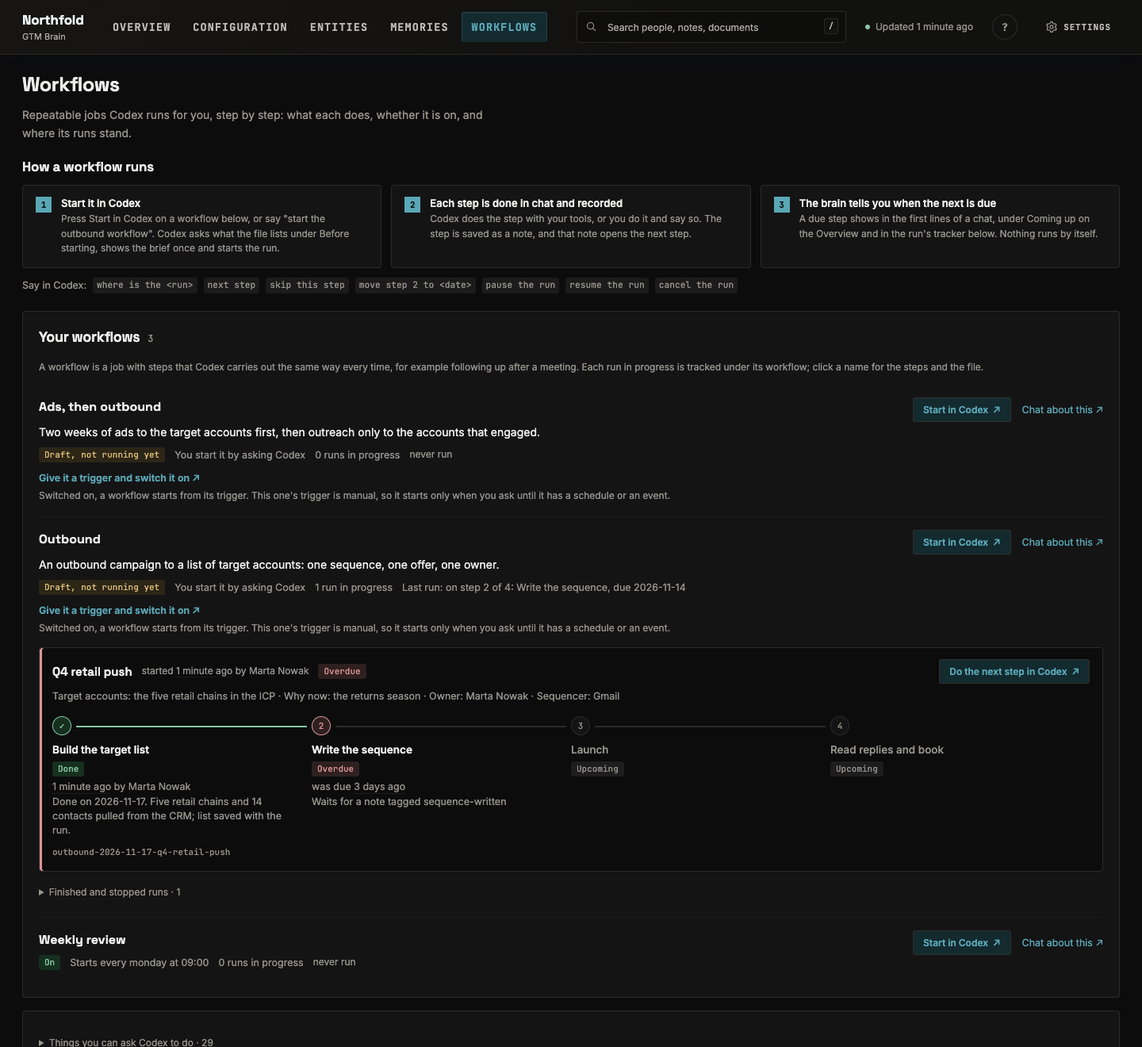
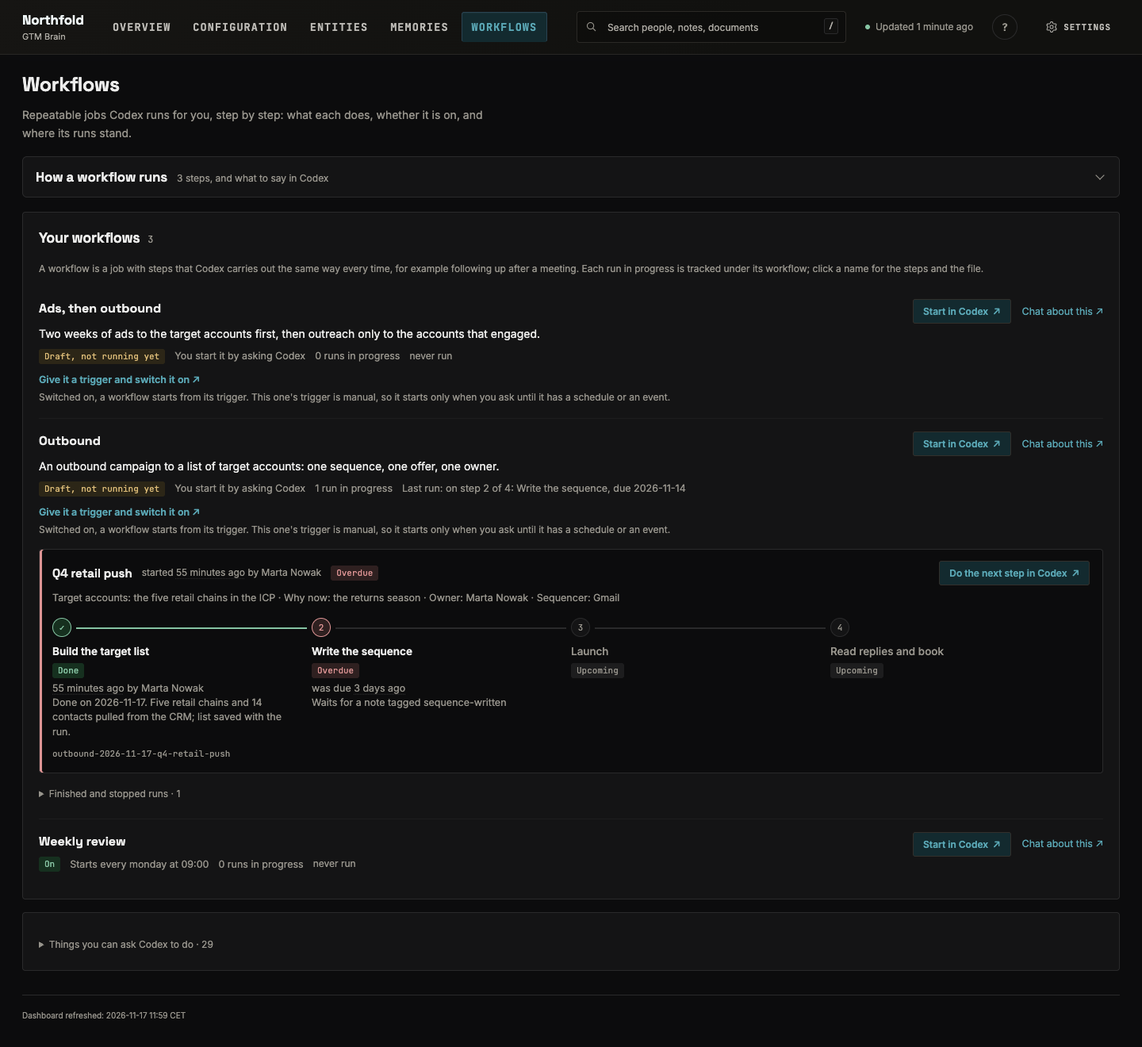
Dashboard in a narrow pane: fits 480 to 760 px beside Codex
The dashboard usually takes half of the screen next to Codex. At 760 px and
below the header is two rows (the five places scroll sideways with a fade,
the current one scrolled into view; search stays in the header, on its own
row below 560 px). Foundations are one compact card each, with what each is
for folded under one disclosure. Configuration puts its tabs first, with a dot
where something is missing, keeps only the picked part's card, and the base
documents table becomes stacked rows. The Workflows explainer is a disclosure,
open at first only in a wide pane with no run, remembered per session. Action
links are at least 32 px high; no view scrolls the page sideways.

A browser test checks every view at 640 and 480 px.

diff --git a/plugins/gtm-brain/scripts/gtm-brain-render/home.template.html b/plugins/gtm-brain/scripts/gtm-brain-render/home.template.html
@@ -373,11 +373,82 @@ time.pl-when{white-space:nowrap;cursor:help;text-decoration:underline dotted var
 @media(max-width:800px){.cfg-schema{grid-template-columns:1fr}.cfg-kinds{position:static;flex-direction:row;flex-wrap:wrap}}
 </style>
 <link rel="stylesheet" href="ui/dashboard.css">
+<style id="pane-style">
+/* The usual place of this page is half of the screen, beside Codex: a pane 480 to 760 px wide. 640 is the width it is
+   designed for, 480 the floor, a whole wide screen the other case. This block comes after the bundle's stylesheet so it
+   wins at equal specificity. Two breakpoints: 760 (the pane) and 560 (the floor). Nothing is removed in a narrow
+   pane: what explains a section folds into a disclosure (drawn by the page script), the facts and links stay. */
+.wf-how{margin:0 0 18px;padding:0 16px;border:1px solid var(--rule);border-radius:6px;background:var(--surface)}.wf-how>summary{display:flex;align-items:baseline;flex-wrap:wrap;gap:4px 12px;min-height:44px;padding:12px 22px 12px 0;cursor:pointer;list-style:none;position:relative}.wf-how>summary::-webkit-details-marker{display:none}.wf-how>summary h2{margin:0}.wf-how>summary:after{content:"";position:absolute;right:4px;top:19px;width:7px;height:7px;border-right:1.5px solid var(--muted);border-bottom:1.5px solid var(--muted);transform:rotate(45deg);transition:transform .15s}.wf-how[open]>summary:after{transform:rotate(-135deg);top:22px}.wf-how>summary:focus-visible{outline:2px solid var(--accent);outline-offset:2px;border-radius:3px}.wf-how .wf-say{margin-bottom:16px}
+.fd-why{font-size:12.5px;color:var(--muted)}.fd-why>summary{display:inline-flex;align-items:center;gap:6px;min-height:32px;cursor:pointer;list-style:none}.fd-why>summary::-webkit-details-marker{display:none}.fd-why>summary:before{content:"";width:5px;height:5px;border-right:1.5px solid currentColor;border-bottom:1.5px solid currentColor;transform:rotate(-45deg);transition:transform .15s}.fd-why[open]>summary:before{transform:rotate(45deg)}.fd-why>summary:hover{color:var(--ink)}.fd-why>summary:focus-visible{outline:2px solid var(--accent);outline-offset:2px;border-radius:3px}.fd-why p,.fd-uses{margin:2px 0 8px;line-height:1.5}.fd-uses{padding-left:18px}.fd-uses li{margin:3px 0}.fd-uses b{color:var(--ink);font-weight:600}.fd-lead{margin:-2px 0 8px}
+.cfg-dot{display:none}
+@media(max-width:760px){
+ /* the header: two rows, the brain and its tools, then the five places, which scroll sideways when they do not fit */
+ .header-inner,.main{padding-left:16px;padding-right:16px}
+ .top{flex-wrap:wrap;gap:8px 10px;min-height:0;padding:10px 0 8px}
+ .brand{order:0;max-width:150px;margin-right:0}.brand b{font-size:15px}
+ .top .search-wrap{order:1;flex:1 1 150px;max-width:none;min-width:0}.top .search-wrap kbd{display:none}.top .gq{padding-right:12px}
+ .sync-status{order:2}.help-link{order:3}.workspace-link{order:4;padding:7px 8px}
+ .top .nav{order:5;flex:1 0 100%;min-width:0;display:flex;flex-wrap:nowrap;gap:2px;margin:0 -16px;padding:0 16px;overflow-x:auto;overscroll-behavior-x:contain;scrollbar-width:none;scroll-padding:0 40px}
+ .top .nav::-webkit-scrollbar{display:none}
+ .top .nav button{flex:none;padding:7px 11px;min-height:36px}
+ .top .nav.more-right{-webkit-mask-image:linear-gradient(90deg,#000 calc(100% - 44px),transparent);mask-image:linear-gradient(90deg,#000 calc(100% - 44px),transparent)}
+ .top .nav.more-left{-webkit-mask-image:linear-gradient(90deg,transparent,#000 44px);mask-image:linear-gradient(90deg,transparent,#000 44px)}
+ .top .nav.more-left.more-right{-webkit-mask-image:linear-gradient(90deg,transparent,#000 44px,#000 calc(100% - 44px),transparent);mask-image:linear-gradient(90deg,transparent,#000 44px,#000 calc(100% - 44px),transparent)}
+ .main{padding-top:14px}.view-toolbar{min-height:0;margin-bottom:6px}.head h1{font-size:26px}.view.on>.head{margin-bottom:14px}.view.on>.head .sub{font-size:13.5px}
+ /* a link that does something is at least 32 px high */
+ .fd-links .linkbtn,.fd-go,.ov-soon-acts>a,.ov-soon-acts>button,.ov-suggest>a,.ov-suggest>button,.wf-on .pl-chat,.wf-acts>a,.pl-go>a,.pl-doc-open,.doc-back,a.pl-chat,.pl-links>a,.mem-acts>a,.mem-acts>button,.ent-back,.doc-foot a{display:inline-flex;align-items:center;column-gap:.3em;min-height:32px}
+ .ov-soon li{gap:4px 18px}
+ /* long words and paths wrap; a table that cannot stack scrolls inside its own box */
+ code,.pl-path,.doc-meta code{overflow-wrap:anywhere;word-break:break-word}.pl-table-wrap{max-width:100%;overflow-x:auto}
+ /* Foundations: one compact card each, the title and its facts on one line, then what is missing and the two links */
+ .fd{margin-top:26px}.fd-grid{grid-template-columns:minmax(0,1fr);gap:8px}
+ .fd-card{display:grid;grid-template-columns:auto minmax(0,1fr);align-items:baseline;column-gap:12px;row-gap:6px;padding:12px 14px}
+ .fd-card>*{grid-column:1/-1;margin:0}.fd-card>h3{grid-column:1;font-size:15px}.fd-card>.fd-facts{grid-column:2;font-size:13px}.fd-card>.fd-links{padding-top:0;gap:0 16px}.fd-card>.fd-why{margin-top:-4px}
+ .mentor-grid{grid-template-columns:repeat(auto-fill,minmax(250px,1fr))}#ov-mentors{margin-top:26px}
+ /* Configuration: the three tabs come first and carry a dot where something is missing; above the picked part's
+    content only its own card stays, without the link to the part it already shows */
+ .view[data-view="config"].on{display:flex;flex-direction:column}.view[data-view="config"]>*{order:3}.view[data-view="config"]>.head{order:0}.view[data-view="config"]>#cfg-tabs{order:1}.view[data-view="config"]>#cfg-peers{order:2}
+ #cfg-peers .fd-card:not(.on){display:none}#cfg-peers .fd-card.on{box-shadow:none}#cfg-peers .fd-card [data-cfg-tab],#cfg-peers .fd-card>h3{display:none}#cfg-peers .fd-card>.fd-facts{grid-column:1/-1}.fd-peers{margin:0 0 14px}
+ .cfg-tabs{flex-wrap:nowrap;overflow-x:auto;scrollbar-width:none;margin-bottom:14px}.cfg-tabs::-webkit-scrollbar{display:none}.cfg-tabs{gap:0}.cfg-tabs button{flex:none;gap:6px;padding:10px 9px;min-height:40px;font-size:13.5px}
+ .cfg-dot{display:inline-block;width:7px;height:7px;border-radius:50%;background:var(--amber);margin-left:-2px}
+ .pl-card{padding:14px 14px}
+ /* the base documents: each row is a stacked item, the name and its state, what it says, when it changed, the link */
+ #cfg-docs .pl-table thead{position:absolute;width:1px;height:1px;overflow:hidden;clip:rect(0 0 0 0);white-space:nowrap}
+ #cfg-docs .pl-table,#cfg-docs .pl-table tbody{display:block;width:100%}
+ #cfg-docs .pl-table tr{display:grid;grid-template-columns:minmax(0,1fr) auto;align-items:baseline;gap:4px 12px;padding:12px 0;border-top:1px solid var(--soft)}
+ #cfg-docs .pl-table tr:first-child{border-top:0}
+ #cfg-docs .pl-table th,#cfg-docs .pl-table td{display:block;padding:0;border:0;min-width:0}
+ #cfg-docs .pl-table tbody th{grid-column:1;grid-row:1}#cfg-docs .pl-table td:nth-child(2){grid-column:2;grid-row:1;justify-self:end}
+ #cfg-docs .pl-table td.pl-says{grid-column:1/-1;max-width:none}
+ #cfg-docs .pl-table td:nth-child(4){grid-column:1;font-size:11.5px;color:var(--muted)}#cfg-docs .pl-table td:nth-child(4) *{font-size:inherit}
+ #cfg-docs .pl-table td.pl-go{grid-column:2;justify-self:end;white-space:nowrap}
+ .pl-dl{grid-template-columns:minmax(0,max-content) minmax(0,1fr);gap:4px 12px}
+ /* Workflows: the explainer is closed unless opened; the run tracker goes vertical */
+ .wf-how{padding:0 12px}.wf-how .help-steps{grid-template-columns:minmax(0,1fr);gap:8px}.wf-top h3{flex:1 1 200px}
+ .wf-run{padding:12px}.wf-run-head .skill-open{margin-left:0}
+ .wf-track{grid-auto-flow:row}.wf-st{padding:0 0 14px 36px}.wf-st:not(:last-child):after{display:none}.wf-dot{position:absolute;left:0;top:0}.wf-st-body{margin-top:0}
+ /* Memories: the filter box takes the row, the selects share the next */
+ .mem-top .explore-search{flex:1 1 100%}.mem-filters select,.mem-filters label input{min-width:0}.mem-top>label{flex:1 1 140px}
+ /* Help */
+ .help-steps{grid-template-columns:minmax(0,1fr);gap:8px}
+ /* the document: the text takes the width, the toolbar wraps */
+ .doc-preview{padding:16px}.doc-body{height:auto;min-height:0}.doc-body.mode-read .doc-preview,.doc-body.mode-preview .doc-preview{max-height:none}
+}
+@media(max-width:560px){
+ /* the floor: the search box gets a row of its own, Settings keeps only its icon */
+ .top .search-wrap{order:6;flex:1 0 100%}
+ .brand{max-width:none;margin-right:auto}
+ .workspace-link .ws-text{position:absolute;width:1px;height:1px;overflow:hidden;clip:rect(0 0 0 0);white-space:nowrap}
+ .head h1{font-size:24px}
+ .fd-card{grid-template-columns:minmax(0,1fr)}.fd-card>.fd-facts{grid-column:1}
+ .mentor-grid{grid-template-columns:minmax(0,1fr)}
+}
+</style>
 </head>
 <body>
 <a class="skip-link" href="#main-content">Skip to content</a>
 <div class="app">
-<header class="app-header"><div class="header-inner"><div class="top"><div class="brand"><div class="brand-copy"><b id="brand-co"></b><span id="sub"></span></div></div><nav class="nav" id="nav" aria-label="Main navigation"></nav><div class="search-wrap"><svg viewBox="0 0 24 24" fill="none" stroke="currentColor" stroke-width="1.7" aria-hidden="true"><circle cx="10.5" cy="10.5" r="6.5"/><path d="m16 16 4.5 4.5"/></svg><label class="sr-only" for="gq">Search this brain</label><input id="gq" class="gq" type="search" placeholder="Search people, notes, documents" autocomplete="off" role="combobox" aria-expanded="false" aria-autocomplete="list" aria-controls="gq-results"><kbd aria-hidden="true">/</kbd><div class="gq-pop" id="gq-results" role="listbox" aria-label="Search results" hidden></div></div><span class="sync-status" id="brain-health" role="status"></span><button class="help-link" data-v="skills" aria-label="Help" title="Help: what you can ask Codex to do">?</button><button class="workspace-link" id="workspace-link" data-v="admin">Settings</button></div><div class="project-picker" id="project-picker" hidden><label for="project-select" id="project-label"></label><div class="project-select-wrap"><select id="project-select"></select></div></div><nav class="subnav" id="subnav" aria-label="More" hidden></nav></div></header>
+<header class="app-header"><div class="header-inner"><div class="top"><div class="brand"><div class="brand-copy"><b id="brand-co"></b><span id="sub"></span></div></div><nav class="nav" id="nav" aria-label="Main navigation"></nav><div class="search-wrap"><svg viewBox="0 0 24 24" fill="none" stroke="currentColor" stroke-width="1.7" aria-hidden="true"><circle cx="10.5" cy="10.5" r="6.5"/><path d="m16 16 4.5 4.5"/></svg><label class="sr-only" for="gq">Search this brain</label><input id="gq" class="gq" type="search" placeholder="Search people, notes, documents" autocomplete="off" role="combobox" aria-expanded="false" aria-autocomplete="list" aria-controls="gq-results"><kbd aria-hidden="true">/</kbd><div class="gq-pop" id="gq-results" role="listbox" aria-label="Search results" hidden></div></div><span class="sync-status" id="brain-health" role="status"></span><button class="help-link" data-v="skills" aria-label="Help" title="Help: what you can ask Codex to do">?</button><button class="workspace-link" id="workspace-link" data-v="admin"><span class="ws-text">Settings</span></button></div><div class="project-picker" id="project-picker" hidden><label for="project-select" id="project-label"></label><div class="project-select-wrap"><select id="project-select"></select></div></div><nav class="subnav" id="subnav" aria-label="More" hidden></nav></div></header>
 <main class="main" id="main-content" tabindex="-1"><div class="view-toolbar"><button class="view-back" id="view-back" type="button" hidden><svg viewBox="0 0 24 24" fill="none" stroke="currentColor" stroke-width="1.8" aria-hidden="true"><path d="m12 5-7 7 7 7M5 12h14"/></svg><span id="view-back-label">Back</span></button><div class="location" id="location" hidden></div><p class="chat-instruction" id="chat-instruction"></p></div>
 <p class="m" id="view-scope"></p>
 <div id="manual-edits" role="status"></div>
@@ -452,11 +523,18 @@ const stale=D.contexts.filter(c=>c.stale&&c.status==="active"&&!c.updating);cons
 const PILLARS=["config","entities","notes","workflows"];
 const VIEWS=[["home","Overview"],["config","Configuration"],["entities","Entities"],["notes","Memories"],["workflows","Workflows"]];let view="home";
 const MORE=[["home","Overview"],["explore","Explore"],["skills","Help"]];
+/* The dashboard usually shares the screen with Codex: a pane 480 to 760 px wide. Below 761 px what explains a section
+   folds into a disclosure, so the facts and links come first; a page without matchMedia (tests, a saved copy) is wide. */
+const NARROW_Q=typeof matchMedia==="function"?matchMedia("(max-width: 760px)"):null;const narrow=()=>!!NARROW_Q?.matches;
 const viewLabel=v=>({doc:"Document",config:"Configuration",entities:"Entities",notes:"Memories",workflows:"Workflows",home:"Overview",contexts:"Topics",explore:"Explore",search:"Search",people:"People & organizations",customers:"Customers",meetings:"Meetings",memories:"Memories",questions:"Needs your attention",projects:"Working folders",admin:"Settings",skills:"Help"})[v]||v;
+/* In a narrow pane the five places scroll sideways: the current one is scrolled into view, and a fade marks the side with more. */
+function navFit(){const n=document.getElementById?.("nav");if(!n||!n.classList||typeof n.scrollWidth!=="number")return;const on=n.querySelector?.(".on");if(on&&n.scrollWidth>n.clientWidth+1&&(on.offsetLeft<n.scrollLeft||on.offsetLeft+on.offsetWidth>n.scrollLeft+n.clientWidth))n.scrollLeft=on.offsetLeft-(n.clientWidth-on.offsetWidth)/2;navFade()}
+function navFade(){const n=document.getElementById?.("nav");if(!n||!n.classList)return;n.classList.toggle("more-left",n.scrollLeft>2);n.classList.toggle("more-right",n.scrollLeft+n.clientWidth<n.scrollWidth-2)}
+if(typeof addEventListener==="function"){addEventListener("resize",()=>navFit());addEventListener("DOMContentLoaded",()=>document.getElementById("nav")?.addEventListener("scroll",navFade,{passive:true}))}
 function nav(){
  /* One flat row. A view outside it (a document, a topic, search) lights the place it was opened from. */
  const group=PILLARS.includes(view)||view==="home"?view:view==="admin"||view==="skills"?view:view==="doc"?(typeof docBack==="function"?docBack()[0]:"config"):["people","customers"].includes(view)?"entities":["contexts","memories","meetings","questions","decisions"].includes(view)?"notes":["projects"].includes(view)?"home":"";
- $("#nav").innerHTML=VIEWS.map(([k,label])=>`<button data-v="${k}" class="${group===k?"on":""}" ${group===k?'aria-current="page"':''}><span>${esc(label)}</span></button>`).join("");
+ $("#nav").innerHTML=VIEWS.map(([k,label])=>`<button data-v="${k}" class="${group===k?"on":""}" ${group===k?'aria-current="page"':''}><span>${esc(label)}</span></button>`).join("");navFit();
  $("#workspace-link").classList.toggle("on",view==="admin");
  $("#workspace-link").setAttribute("aria-current",view==="admin"?"page":"false");
  const parent=["contexts","people","customers","meetings","memories","questions"].includes(view)?"home":null;
@@ -1203,19 +1281,20 @@ function foundations(){
  for(const d of drafts.slice(0,2))base.weak.push(`${d.title} is a draft: Codex follows it and says it is not approved.`);
  return [rules,schema,base];
 }
-const fdCard=(f,where,compact)=>`<article class="fd-card${f.weak.length?" weak":""}${where==="config"&&cfgTab===f.tab?" on":""}" data-fd="${f.key}"><h3>${esc(f.title)}</h3>${compact?"":`<p class="fd-use">${esc(f.use)}</p>`}<p class="fd-facts">${f.facts.join(` <span aria-hidden="true">·</span> `)}</p>${f.chips?`<p class="fd-chips">${f.chips}</p>`:""}${f.weak.length?`<ul class="fd-weak">${f.weak.map(w=>`<li>${esc(w)}</li>`).join("")}</ul>`:""}<p class="fd-links">${where==="config"?`<button type="button" class="linkbtn" data-cfg-tab="${f.tab}">${esc(f.open.replace(/^Open/,"Show"))} <span aria-hidden="true">↓</span></button>`:`<button type="button" class="linkbtn" data-v="config" data-cfg-open="${f.tab}">${esc(f.open)} <span aria-hidden="true">→</span></button>`}<a class="fd-go" href="${esc(f.href)}">${esc(f.chat)} <span aria-hidden="true">↗</span></a></p></article>`;
+/* use: "show" the sentence on what Codex uses it for, "fold" it under a disclosure (a narrow pane), or "none". */
+const fdCard=(f,where,compact,use=compact?"none":"show")=>`<article class="fd-card${f.weak.length?" weak":""}${where==="config"&&cfgTab===f.tab?" on":""}" data-fd="${f.key}"><h3>${esc(f.title)}</h3>${use==="show"?`<p class="fd-use">${esc(f.use)}</p>`:""}<p class="fd-facts">${f.facts.join(` <span aria-hidden="true">·</span> `)}</p>${f.chips?`<p class="fd-chips">${f.chips}</p>`:""}${f.weak.length?`<ul class="fd-weak">${f.weak.map(w=>`<li>${esc(w)}</li>`).join("")}</ul>`:""}<p class="fd-links">${where==="config"?`<button type="button" class="linkbtn" data-cfg-tab="${f.tab}">${esc(f.open.replace(/^Open/,"Show"))} <span aria-hidden="true">↓</span></button>`:`<button type="button" class="linkbtn" data-v="config" data-cfg-open="${f.tab}">${esc(f.open)} <span aria-hidden="true">→</span></button>`}<a class="fd-go" href="${esc(f.href)}">${esc(f.chat)} <span aria-hidden="true">↗</span></a></p>${use==="fold"?`<details class="fd-why"><summary>${esc("What Codex uses it for")}</summary><p class="fd-use">${esc(f.use)}</p></details>`:""}</article>`;
 /* The Overview's section, above the mentors. It stays when nothing is missing, shorter. */
 function renderFoundations(){
  const box=$("#ov-foundations");if(!box)return;
  const parts=foundations();if(!parts.length){box.innerHTML="";return}
- const compact=parts.every(f=>!f.weak.length);
- box.innerHTML=`<section class="fd${compact?" compact":""}" aria-label="${esc("Foundations")}"><div class="ov-head"><h2>${esc("Foundations")}</h2>${compact?`<span class="pl-age">${esc("nothing missing")}</span>`:""}</div>${compact?"":`<p class="mentor-lead">${esc("What Codex works from, most important first: the rules and the schema decide what the brain keeps, the base documents say what your work must follow. What is missing here is missing from everything Codex does for you.")}</p>`}<div class="fd-grid">${parts.map(f=>fdCard(f,"home",compact)).join("")}</div></section>`;
+ const compact=parts.every(f=>!f.weak.length),fold=narrow(),lead="What Codex works from, most important first: the rules and the schema decide what the brain keeps, the base documents say what your work must follow. What is missing here is missing from everything Codex does for you.";
+ box.innerHTML=`<section class="fd${compact?" compact":""}" aria-label="${esc("Foundations")}"><div class="ov-head"><h2>${esc("Foundations")}</h2>${compact?`<span class="pl-age">${esc("nothing missing")}</span>`:""}</div>${compact?"":fold?`<details class="fd-why fd-lead"><summary>${esc("What these are")}</summary><p class="mentor-lead">${esc(lead)}</p><ul class="fd-uses">${parts.map(f=>`<li><b>${esc(f.title)}</b>: ${esc(f.use)}</li>`).join("")}</ul></details>`:`<p class="mentor-lead">${esc(lead)}</p>`}<div class="fd-grid">${parts.map(f=>fdCard(f,"home",compact,compact||fold?"none":"show")).join("")}</div></section>`;
 }
 /* The Configuration tab's landing: the same three as peers, before the detail of the one picked. */
 function renderConfigPeers(){
  const box=$("#cfg-peers");if(!box)return;
  const parts=foundations();
- box.innerHTML=parts.length?`<div class="fd-grid fd-peers" role="group" aria-label="${esc("The three parts of the configuration")}">${parts.map(f=>fdCard(f,"config",false)).join("")}</div>`:"";
+ box.innerHTML=parts.length?`<div class="fd-grid fd-peers" role="group" aria-label="${esc("The three parts of the configuration")}">${parts.map(f=>fdCard(f,"config",false,narrow()?"fold":"show")).join("")}</div>`:"";
 }
 function renderConfig(){
  if(!PL){$("#cfg-docs").innerHTML=plEmpty;return}
@@ -1304,7 +1383,9 @@ function renderConfigTabs(){
  if(!PL||plUnread("configuration"))return;
  const C=PL.configuration,tabs=[["rules","Rules",ruleGroupCounts(C.rules).reduce((a,b)=>a+b,0)],["schema","Schema",C.schema.kinds.length],["docs","Base documents and company",C.documents.filter(d=>d.base).length]];
  if(!tabs.some(([k])=>k===cfgTab))cfgTab="docs";
- $("#cfg-tabs").innerHTML=tabs.map(([k,label,n])=>`<button type="button" role="tab" id="cfg-tab-${k}" aria-selected="${cfgTab===k}" aria-controls="cfg-${k}" tabindex="${cfgTab===k?0:-1}" data-cfg-tab="${k}" class="${cfgTab===k?"on":""}">${esc(label)}${n===null?"":` <span class="pl-count">${n}</span>`}</button>`).join("");
+ /* a part where something is missing carries a dot; in a narrow pane the tabs come first and the peer cards above them fold away */
+ let weak=new Set();try{weak=new Set(foundations().filter(f=>f.weak.length).map(f=>f.tab))}catch{}
+ $("#cfg-tabs").innerHTML=tabs.map(([k,label,n])=>`<button type="button" role="tab" id="cfg-tab-${k}" aria-selected="${cfgTab===k}" aria-controls="cfg-${k}" tabindex="${cfgTab===k?0:-1}" data-cfg-tab="${k}" class="${cfgTab===k?"on":""}">${esc(label)}${n===null?"":` <span class="pl-count">${n}</span>`}${weak.has(k)?`<span class="cfg-dot" title="${esc("Something here is missing")}"><span class="sr-only">${esc(", something here is missing")}</span></span>`:""}</button>`).join("");
  for(const [k,id] of [["docs","#cfg-docs"],["docs","#cfg-about"],["docs","#cfg-profile"],["rules","#cfg-rules"],["schema","#cfg-schema"]])$(id).hidden=cfgTab!==k;$("#cfg-settings").hidden=true;
  renderConfigPeers();
 }
@@ -1807,7 +1888,9 @@ function renderWorkflowsTab(){
  /* how one runs, in three steps like Help's, with the sentences that move a run */
  const how=[["Start it in Codex","Press Start in Codex on a workflow below, or say \"start the outbound workflow\". Codex asks what the file lists under Before starting, shows the brief once and starts the run."],["Each step is done in chat and recorded","Codex does the step with your tools, or you do it and say so. The step is saved as a note, and that note opens the next step."],["The brain tells you when the next is due","A due step shows in the first lines of a chat, under Coming up on the Overview and in the run's tracker below. Nothing runs by itself."]];
  const say=["where is the <run>","next step","skip this step","move step 2 to <date>","pause the run","resume the run","cancel the run"];
- $("#pw-how").innerHTML=`<section class="wf-how" aria-label="${esc("How a workflow runs")}"><h2>${esc("How a workflow runs")}</h2><ol class="help-steps">${how.map(([title,body],i)=>`<li><b>${i+1}</b><div><strong>${esc(title)}</strong><p>${esc(body)}</p></div></li>`).join("")}</ol><p class="wf-say"><span>${esc("Say in Codex:")}</span>${say.map(x=>`<code>${esc(x)}</code>`).join("")}</p></section>`;
+ /* a disclosure: open at first only in a wide pane with no run yet; once the person opens or closes it, that holds for the session */
+ let howOpen=!narrow()&&!W.files.some(f=>(f.runs||[]).length);try{const kept=sessionStorage.getItem("gtm-wf-how");if(kept)howOpen=kept==="open"}catch{}
+ $("#pw-how").innerHTML=`<details class="wf-how" id="wf-how"${howOpen?" open":""}><summary><h2>${esc("How a workflow runs")}</h2><span class="pl-age">${esc("3 steps, and what to say in Codex")}</span></summary><ol class="help-steps">${how.map(([title,body],i)=>`<li><b>${i+1}</b><div><strong>${esc(title)}</strong><p>${esc(body)}</p></div></li>`).join("")}</ol><p class="wf-say"><span>${esc("Say in Codex:")}</span>${say.map(x=>`<code>${esc(x)}</code>`).join("")}</p></details>`;
  $("#pw-files").innerHTML=`<section class="sec pl-card"><h2>${esc("Your workflows")} <span class="pl-count">${W.files.length}</span></h2><p class="m">${esc("A workflow is a job with steps that Codex carries out the same way every time, for example following up after a meeting. Each run in progress is tracked under its workflow; click a name for the steps and the file.")}</p>${W.files.map(pwCard).join("")||`<p class="empty">${esc("No workflows yet. To make one, describe the job to Codex, for example: \"make a workflow for following up after a demo\".")}</p>`}${W.orphans.length?`<details class="fold"><summary>${esc("Runs of workflows that were removed")} · ${W.orphans.length}</summary><ul class="pl-list pl-runs">${W.orphans.map(r=>`<li><b>${esc(String(r.workflow||"").replace(/-/g," "))}</b> <span class="pl-age">${esc("started")} ${r.started?whenText(r.started):"?"}</span> · ${esc(pwRunLine({slug:r.workflow},r))}</li>`).join("")}</ul></details>`:""}</section>`;
  if(plUnread("workflows"))$("#pw-files").innerHTML=plUnreadMsg;
  /* the count is the number of rows the list below it draws, never a figure of its own */
@@ -1816,6 +1899,9 @@ function renderWorkflowsTab(){
  $("#pw-skills").innerHTML=`<section class="sec pl-card"><details class="fold"><summary>${esc("Things you can ask Codex to do")} · ${shipped.length+yours.length}</summary><p class="m">${esc("Each opens a prepared message in Codex; nothing happens until you send it.")}</p><h3>${esc("Shipped with GTM Brain")}</h3><ul class="pl-list">${shipped.map(skillItem).join("")||`<li class="pl-age">${esc("None installed.")}</li>`}</ul><h3>${esc("Made by your team")}</h3><ul class="pl-list">${yours.map(skillItem).join("")||`<li class="pl-age">${esc("None yet. Say \"make this a skill\" after a task worth repeating.")}</li>`}</ul></details></section>`;
 }
 document.addEventListener("click",e=>{const b=e.target?.closest?.("[data-pw-open]");if(!b)return;pwOpen=pwOpen===b.dataset.pwOpen?"":b.dataset.pwOpen;renderWorkflowsTab()});
+document.addEventListener("click",e=>{const d=e.target?.closest?.("#wf-how>summary")?.parentElement;if(!d)return;try{sessionStorage.setItem("gtm-wf-how",d.open?"closed":"open")}catch{}});
+/* Crossing the narrow width redraws what folds there. */
+NARROW_Q?.addEventListener?.("change",()=>{try{renderFoundations();renderConfigPeers();renderWorkflowsTab()}catch{}});
 let plObserver=null;
 function plObserve(){
  if(typeof IntersectionObserver==="undefined")return;plObserver?.disconnect();

diff --git a/frontend/dashboard/e2e/tests/narrow.e2e.ts b/frontend/dashboard/e2e/tests/narrow.e2e.ts
@@ -1,0 +1,66 @@
+// The dashboard usually sits in Codex's right-hand pane, half of the screen: 640 px wide is the width it is designed
+// for, 480 the floor. At both, no view scrolls the page sideways and the controls a person came for are in reach.
+import { test } from '@e2e-dev/web';
+import { expect } from 'e2e';
+import { PLACES } from './fixture.ts';
+
+const sideways = (browser: any) => browser.evaluate(() => document.documentElement.scrollWidth - document.documentElement.clientWidth);
+// how far past the right edge of the page the first element matching a selector reaches (0 or less: within the width)
+const pastEdge = (browser: any, selector: string) => browser.evaluate((sel: string) => { const e = document.querySelector(sel); return e ? Math.ceil(e.getBoundingClientRect().right - document.documentElement.clientWidth) : 9999; }, selector);
+
+for (const width of [640, 480]) {
+  test(`a ${width} px pane: every view fits the width, the five places stay reachable, and the key controls show`, async ({ app, screen, browser }) => {
+    await browser.setViewport({ width, height: 900 });
+    await app.open('/');
+    const nav = screen.getByRole('navigation', 'Main navigation');
+    for (const place of PLACES) {
+      // a place scrolled out of the row is still a button in it; tapping it scrolls it into view
+      await nav.getByRole('button', place).tap();
+      await expect(screen.getByRole('heading', place, { level: 1 })).toBeVisible();
+      await expect(nav.getByRole('button', place)).toBeVisible();
+      expect(await sideways(browser)).toBeLessThanOrEqual(0);
+    }
+    // the search box stays in the header
+    await expect(screen.getByRole('combobox', 'Search this brain')).toBeVisible();
+
+    // Overview: each foundation keeps its link to the part and its chat; what each is for folds into one disclosure
+    await nav.getByRole('button', 'Overview').tap();
+    await expect(browser.locator('#ov-foundations article[data-fd="rules"]').getByRole('button', /^Open the rules/)).toBeVisible();
+    await expect(browser.locator('#ov-foundations article[data-fd="docs"] a.fd-go')).toBeVisible();
+    await expect(browser.locator('#ov-foundations .fd-use')).toBeHidden();
+    await browser.locator('#ov-foundations .fd-lead > summary').tap();
+    await expect(browser.locator('#ov-foundations .fd-uses li')).toHaveCount(3);
+    await expect(browser.locator('#ov-mentors a.skill-open').first()).toBeVisible();
+    expect(await pastEdge(browser, '#ov-mentors a.skill-open')).toBeLessThanOrEqual(0);
+
+    // Configuration: the parts' tabs come before the summary card, which shows only the part picked
+    await nav.getByRole('button', 'Configuration').tap();
+    const parts = screen.getByRole('tablist', 'Parts of the configuration');
+    await parts.getByRole('tab', /^Base documents/).tap();
+    expect(await browser.evaluate(() => document.querySelector('#cfg-tabs')!.getBoundingClientRect().bottom <= document.querySelector('#cfg-peers')!.getBoundingClientRect().top + 1)).toBe(true);
+    expect(await browser.evaluate(() => [...document.querySelectorAll('#cfg-peers article.fd-card')].filter(a => a.getClientRects().length).length)).toBe(1);
+    // a base document row is one stacked item with its link in reach
+    await expect(browser.locator('#cfg-docs tbody tr').first().getByRole('link', /^Write .* with Codex$/)).toBeVisible();
+    expect(await pastEdge(browser, '#cfg-docs tbody tr td.pl-go a')).toBeLessThanOrEqual(0);
+    expect(await sideways(browser)).toBeLessThanOrEqual(0);
+
+    // Workflows: the explainer is closed, the first workflow's Start in Codex is on the page
+    await nav.getByRole('button', 'Workflows').tap();
+    await expect(browser.locator('#wf-how')).not.toHaveAttribute('open', '');
+    await expect(browser.locator('#wf-how ol.help-steps')).toBeHidden();
+    await expect(browser.locator('#pw-files a[data-pw-start]').first()).toBeVisible();
+    await browser.locator('#wf-how > summary').tap();
+    await expect(browser.locator('#wf-how ol.help-steps')).toBeVisible();
+
+    // Memories: the filter box is visible and the toolbar wraps inside the width
+    await nav.getByRole('button', 'Memories').tap();
+    await expect(screen.getByRole('searchbox', /Filter notes/)).toBeVisible();
+    expect(await sideways(browser)).toBeLessThanOrEqual(0);
+
+    // a document fits the width too
+    await nav.getByRole('button', 'Configuration').tap();
+    await browser.locator('#cfg-docs').getByRole('button', 'Pricing').tap();
+    await expect(browser.locator('#doc-preview')).toContainText(/\S/);
+    expect(await sideways(browser)).toBeLessThanOrEqual(0);
+  });
+}

diff --git a/frontend/dashboard/e2e/tests/tabs.e2e.ts b/frontend/dashboard/e2e/tests/tabs.e2e.ts
@@ -310,8 +310,10 @@ test('Workflows: how one runs, a Start link with its prepared message per workfl
   const f = fixture(app.baseUrl);
   await app.open('/');
   await screen.getByRole('navigation', 'Main navigation').getByRole('button', 'Workflows').tap();
-  // the explainer: three steps and the sentences that move a run
+  // the explainer: one line, closed at first when a run exists, and once opened three steps and the sentences that move a run
   await expect(browser.locator('#pw-how').getByRole('heading', 'How a workflow runs', { level: 2 })).toBeVisible();
+  await expect(browser.locator('#pw-how ol.help-steps')).toBeHidden();
+  await browser.locator('#wf-how > summary').tap();
   await expect(browser.locator('#pw-how ol.help-steps li')).toHaveCount(3);
   for (const say of ['where is the <run>', 'skip this step', 'move step 2 to <date>', 'pause the run']) await expect(browser.locator('#pw-how .wf-say')).toContainText(say);
   // every file under workflows/ has a card, and only those

diff --git a/README.md b/README.md
@@ -388,7 +388,7 @@ writes: ["tool:email"]
 
 Detail: [WORKFLOWS.md](docs/WORKFLOWS.md).
 
-![The Workflows tab: how a workflow runs in three steps, then each workflow with whether it is on, how it starts, a Start in Codex link and its runs](docs/images/screenshots/dashboard-workflows.png)
+![The Workflows tab: How a workflow runs folded to one line, then each workflow with whether it is on, how it starts, a Start in Codex link and its runs](docs/images/screenshots/dashboard-workflows.png)
 
 ![A run tracked on the Workflows tab: its name, what it is about, and its four steps in order, the first done with its note, the second overdue with what it waits for, two upcoming, and the link that prepares the next step in Codex](docs/images/screenshots/dashboard-workflow-run.png)
 
